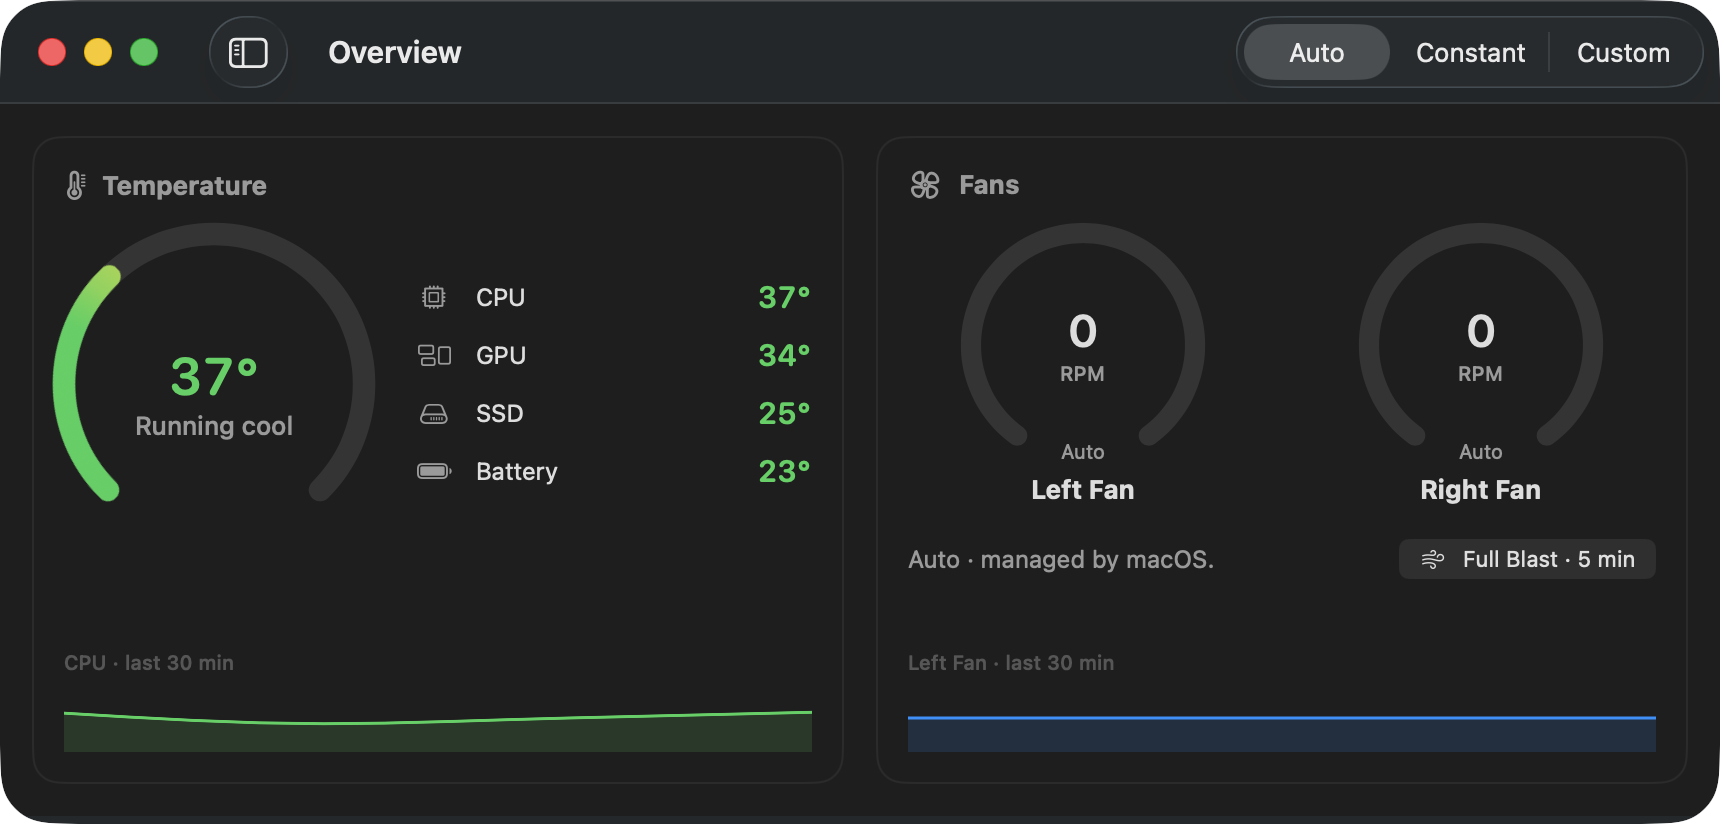
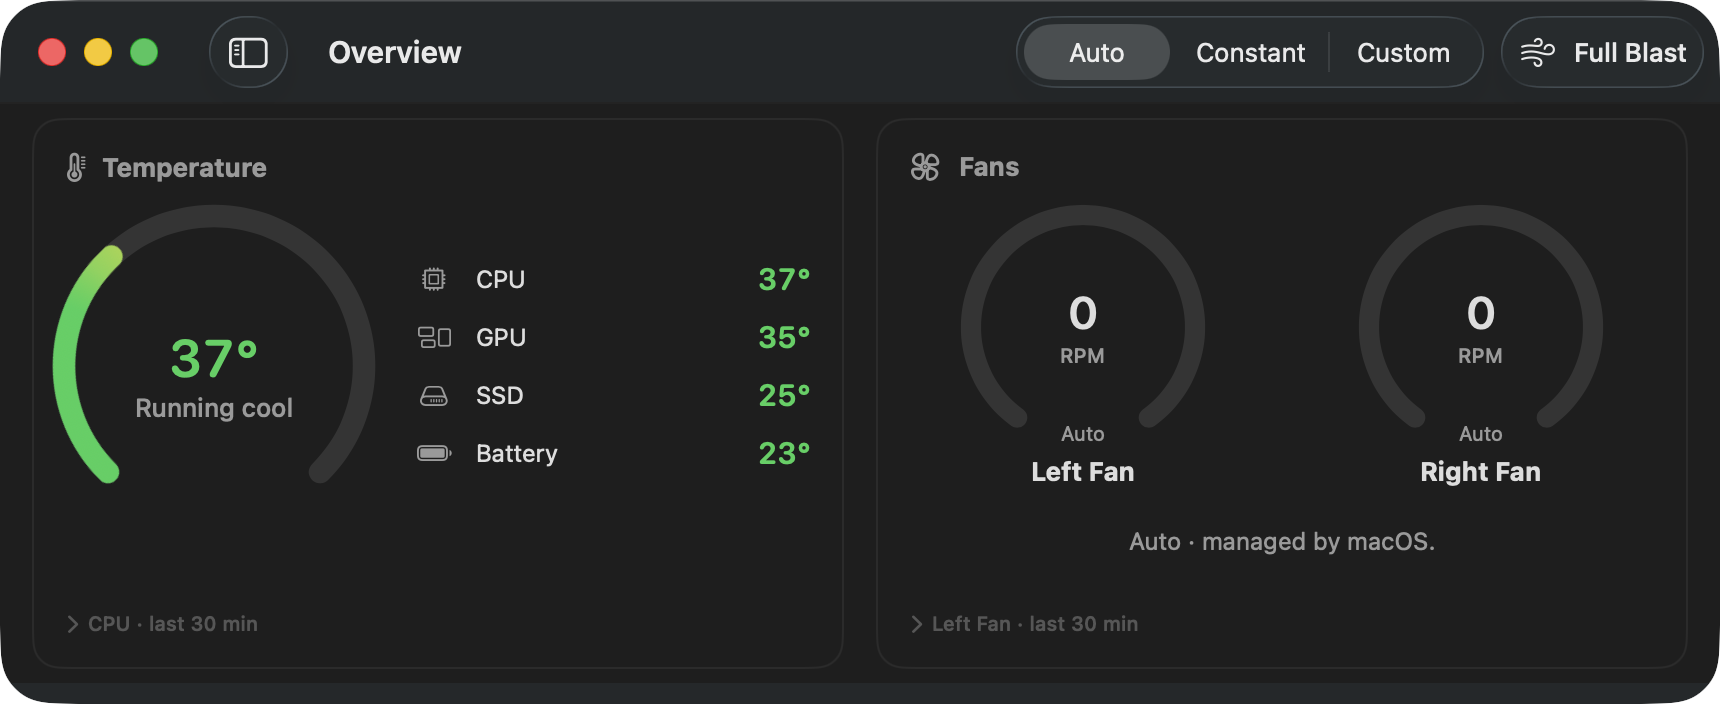
Collapse overview trends by default and move Full Blast next to the mode picker

diff --git a/App/Views/Overview/OverviewView.swift b/App/Views/Overview/OverviewView.swift
@@ -81,11 +81,8 @@ private struct FansCard: View {
                 }
             }
             .padding(.vertical, 4)
-            HStack(spacing: 12) {
-                modeDetail
-                Spacer(minLength: 0)
-                boostButton
-            }
+            modeDetail
+                .frame(maxWidth: .infinity)
             Spacer(minLength: 0)
             if let first = model.monitor.fans.first {
                 TrendStrip(
@@ -95,18 +92,6 @@ private struct FansCard: View {
                 )
             }
         }
-    }
-
-    private var boostButton: some View {
-        Button {
-            model.toggleBoost()
-        } label: {
-            Label(model.controller.isBoosting ? "Stop Full Blast" : "Full Blast · 5 min", systemImage: "wind")
-        }
-        .controlSize(.small)
-        .tint(model.controller.isBoosting ? .orange : nil)
-        .disabled(!model.helper.isEnabled)
-        .help("Run every fan at maximum speed for five minutes, then return to the current mode.")
     }
 
     @ViewBuilder
@@ -126,6 +111,7 @@ private struct FansCard: View {
             .font(.callout)
             .foregroundStyle(.secondary)
             .lineLimit(1)
+            .multilineTextAlignment(.center)
             .frame(minHeight: 22)
     }
 
@@ -166,14 +152,28 @@ private struct TrendStrip: View {
     let title: String
     let samples: [HistorySample]
     let tint: Color
+    @AppStorage("showOverviewTrends") private var isExpanded = false
 
     var body: some View {
-        VStack(alignment: .leading, spacing: 4) {
-            Text(title)
-                .font(.caption2)
+        VStack(alignment: .leading, spacing: 6) {
+            Button {
+                withAnimation(.easeInOut(duration: 0.2)) { isExpanded.toggle() }
+            } label: {
+                HStack(spacing: 4) {
+                    Image(systemName: "chevron.right")
+                        .font(.caption2.weight(.semibold))
+                        .rotationEffect(.degrees(isExpanded ? 90 : 0))
+                    Text(title)
+                        .font(.caption2)
+                }
                 .foregroundStyle(.tertiary)
-            Sparkline(samples: samples, tint: tint)
-                .frame(height: 34)
+            }
+            .buttonStyle(.plain)
+            .help(isExpanded ? "Hide the last 30 minutes" : "Show the last 30 minutes")
+            if isExpanded {
+                Sparkline(samples: samples, tint: tint)
+                    .frame(height: 34)
+            }
         }
     }
 }

diff --git a/App/Views/Main/MainWindow.swift b/App/Views/Main/MainWindow.swift
@@ -53,7 +53,7 @@ struct SidebarCommands: Commands {
 }
 
 struct MainWindow: View {
-    static let id = "dashboard"
+    static let id = "macfans.main"
 
     @Environment(AppModel.self) private var model
     @State private var selection: SidebarItem = .overview
@@ -82,10 +82,11 @@ struct MainWindow: View {
                             .labelsHidden()
                     }
                     ControlModePicker()
+                    BoostButton()
                 }
             }
         }
-        .frame(minWidth: 800, idealWidth: 860, maxWidth: .infinity, minHeight: 360, idealHeight: 370, maxHeight: .infinity)
+        .frame(minWidth: 800, idealWidth: 860, maxWidth: .infinity, minHeight: 300, idealHeight: 310, maxHeight: .infinity)
         .navigationSplitViewStyle(.balanced)
         .focusedSceneValue(\.sidebarSelection, $selection)
     }

diff --git a/App/Views/Components/BoostButton.swift b/App/Views/Components/BoostButton.swift
@@ -1,0 +1,17 @@
+import SwiftUI
+
+struct BoostButton: View {
+    @Environment(AppModel.self) private var model
+
+    var body: some View {
+        Button {
+            model.toggleBoost()
+        } label: {
+            Label(model.controller.isBoosting ? "Stop" : "Full Blast", systemImage: "wind")
+        }
+        .labelStyle(.titleAndIcon)
+        .tint(model.controller.isBoosting ? .orange : nil)
+        .disabled(!model.helper.isEnabled)
+        .help(model.controller.isBoosting ? "Stop full blast and return to the current mode." : "Run every fan at maximum speed for five minutes, then return to the current mode.")
+    }
+}

diff --git a/App/MacFansApp.swift b/App/MacFansApp.swift
@@ -10,7 +10,7 @@ struct MacFansApp: App {
             MainWindow()
                 .environment(appDelegate.model)
         }
-        .defaultSize(width: 860, height: 370)
+        .defaultSize(width: 860, height: 310)
         .windowResizability(.contentSize)
         .commands { SidebarCommands() }
 
